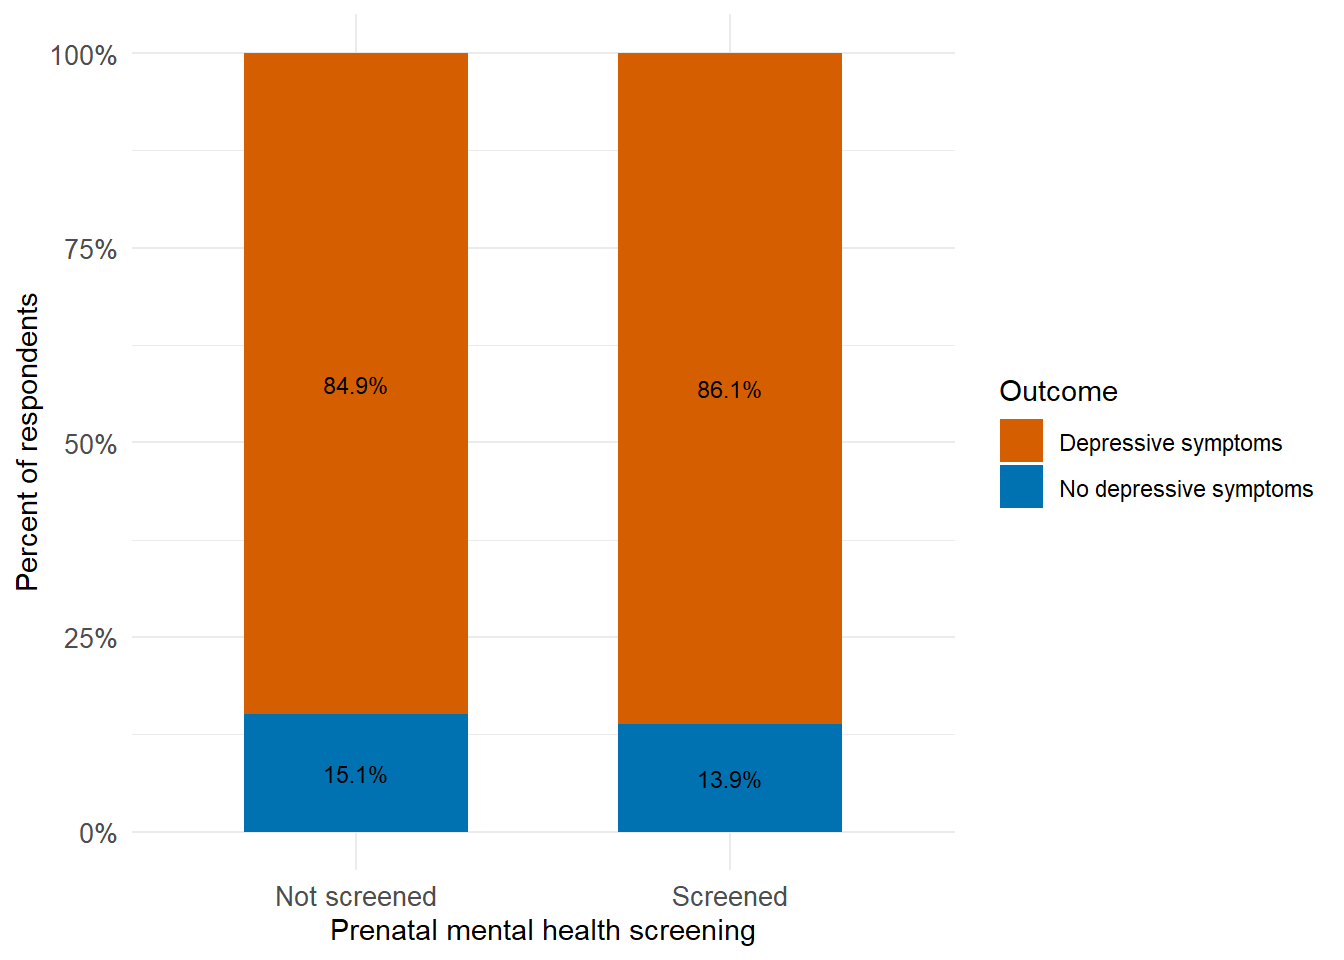
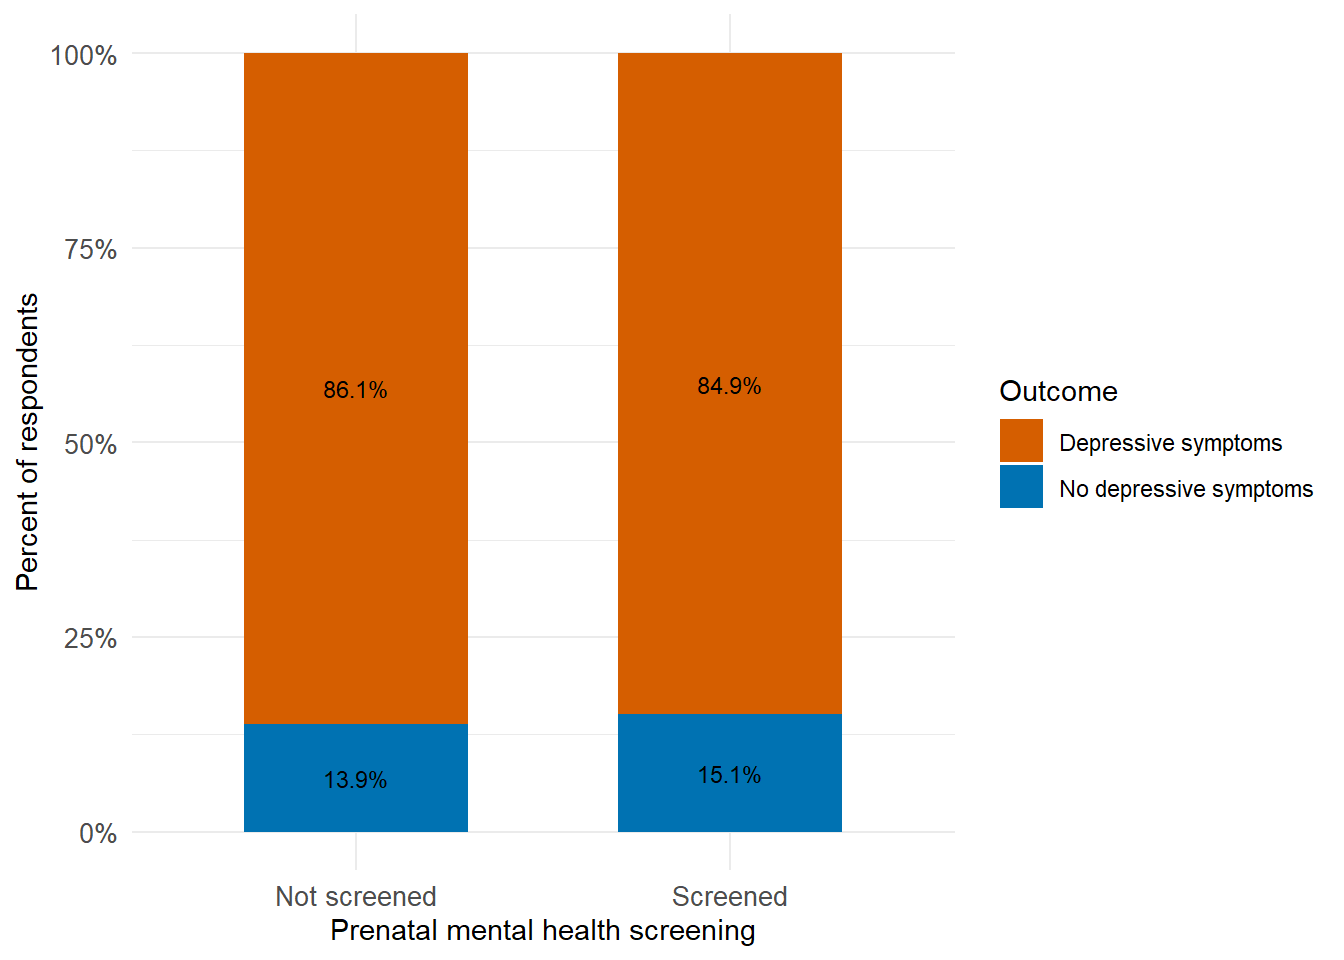
Fix ROC AUC values and screening table labels

diff --git a/code/analysis/05_model_validation.html b/code/analysis/05_model_validation.html
@@ -251,25 +251,44 @@ $ pp_depress_bin &lt;fct&gt; No, Yes, Yes, Yes, No, Yes, Yes, Yes, Yes, Yes, Yes
 <section id="compare-models" class="level1">
 <h1>Compare models</h1>
 <div class="cell">
-<div class="code-copy-outer-scaffold"><div class="sourceCode cell-code" id="cb10"><pre class="sourceCode r code-with-copy"><code class="sourceCode r"><span id="cb10-1"><a href="#cb10-1" aria-hidden="true" tabindex="-1"></a>model_compare <span class="ot">&lt;-</span> <span class="fu">bind_rows</span>(log_metrics, rf_metrics) <span class="sc">|&gt;</span></span>
-<span id="cb10-2"><a href="#cb10-2" aria-hidden="true" tabindex="-1"></a>  <span class="fu">select</span>(model, .metric, mean, std_err, n) <span class="sc">|&gt;</span></span>
-<span id="cb10-3"><a href="#cb10-3" aria-hidden="true" tabindex="-1"></a>  <span class="fu">arrange</span>(.metric, <span class="fu">desc</span>(mean))</span>
-<span id="cb10-4"><a href="#cb10-4" aria-hidden="true" tabindex="-1"></a></span>
-<span id="cb10-5"><a href="#cb10-5" aria-hidden="true" tabindex="-1"></a>model_compare</span></code></pre></div><button title="Copy to Clipboard" class="code-copy-button"><i class="bi"></i></button></div>
+<div class="code-copy-outer-scaffold"><div class="sourceCode cell-code" id="cb10"><pre class="sourceCode r code-with-copy"><code class="sourceCode r"><span id="cb10-1"><a href="#cb10-1" aria-hidden="true" tabindex="-1"></a><span class="co"># Recalculate ROC AUC correctly with event_level = "second"</span></span>
+<span id="cb10-2"><a href="#cb10-2" aria-hidden="true" tabindex="-1"></a>log_auc_fixed <span class="ot">&lt;-</span> <span class="fu">collect_predictions</span>(log_res) <span class="sc">|&gt;</span></span>
+<span id="cb10-3"><a href="#cb10-3" aria-hidden="true" tabindex="-1"></a>  <span class="fu">group_by</span>(id) <span class="sc">|&gt;</span></span>
+<span id="cb10-4"><a href="#cb10-4" aria-hidden="true" tabindex="-1"></a>  <span class="fu">roc_auc</span>(<span class="at">truth =</span> pp_depress_bin, .pred_Yes, <span class="at">event_level =</span> <span class="st">"second"</span>) <span class="sc">|&gt;</span></span>
+<span id="cb10-5"><a href="#cb10-5" aria-hidden="true" tabindex="-1"></a>  <span class="fu">summarise</span>(<span class="at">mean =</span> <span class="fu">mean</span>(.estimate), <span class="at">std_err =</span> <span class="fu">sd</span>(.estimate)<span class="sc">/</span><span class="fu">sqrt</span>(<span class="fu">n</span>()), <span class="at">n =</span> <span class="fu">n</span>()) <span class="sc">|&gt;</span></span>
+<span id="cb10-6"><a href="#cb10-6" aria-hidden="true" tabindex="-1"></a>  <span class="fu">mutate</span>(<span class="at">model =</span> <span class="st">"Logistic regression"</span>, <span class="at">.metric =</span> <span class="st">"roc_auc"</span>)</span>
+<span id="cb10-7"><a href="#cb10-7" aria-hidden="true" tabindex="-1"></a></span>
+<span id="cb10-8"><a href="#cb10-8" aria-hidden="true" tabindex="-1"></a>rf_auc_fixed <span class="ot">&lt;-</span> <span class="fu">collect_predictions</span>(rf_res) <span class="sc">|&gt;</span></span>
+<span id="cb10-9"><a href="#cb10-9" aria-hidden="true" tabindex="-1"></a>  <span class="fu">group_by</span>(id) <span class="sc">|&gt;</span></span>
+<span id="cb10-10"><a href="#cb10-10" aria-hidden="true" tabindex="-1"></a>  <span class="fu">roc_auc</span>(<span class="at">truth =</span> pp_depress_bin, .pred_Yes, <span class="at">event_level =</span> <span class="st">"second"</span>) <span class="sc">|&gt;</span></span>
+<span id="cb10-11"><a href="#cb10-11" aria-hidden="true" tabindex="-1"></a>  <span class="fu">summarise</span>(<span class="at">mean =</span> <span class="fu">mean</span>(.estimate), <span class="at">std_err =</span> <span class="fu">sd</span>(.estimate)<span class="sc">/</span><span class="fu">sqrt</span>(<span class="fu">n</span>()), <span class="at">n =</span> <span class="fu">n</span>()) <span class="sc">|&gt;</span></span>
+<span id="cb10-12"><a href="#cb10-12" aria-hidden="true" tabindex="-1"></a>  <span class="fu">mutate</span>(<span class="at">model =</span> <span class="st">"Random forest"</span>, <span class="at">.metric =</span> <span class="st">"roc_auc"</span>)</span>
+<span id="cb10-13"><a href="#cb10-13" aria-hidden="true" tabindex="-1"></a></span>
+<span id="cb10-14"><a href="#cb10-14" aria-hidden="true" tabindex="-1"></a>acc_rows <span class="ot">&lt;-</span> <span class="fu">bind_rows</span>(log_metrics, rf_metrics) <span class="sc">|&gt;</span></span>
+<span id="cb10-15"><a href="#cb10-15" aria-hidden="true" tabindex="-1"></a>  <span class="fu">filter</span>(.metric <span class="sc">==</span> <span class="st">"accuracy"</span>) <span class="sc">|&gt;</span></span>
+<span id="cb10-16"><a href="#cb10-16" aria-hidden="true" tabindex="-1"></a>  <span class="fu">select</span>(model, .metric, mean, std_err, n)</span>
+<span id="cb10-17"><a href="#cb10-17" aria-hidden="true" tabindex="-1"></a></span>
+<span id="cb10-18"><a href="#cb10-18" aria-hidden="true" tabindex="-1"></a>model_compare_fixed <span class="ot">&lt;-</span> <span class="fu">bind_rows</span>(</span>
+<span id="cb10-19"><a href="#cb10-19" aria-hidden="true" tabindex="-1"></a>  acc_rows,</span>
+<span id="cb10-20"><a href="#cb10-20" aria-hidden="true" tabindex="-1"></a>  log_auc_fixed <span class="sc">|&gt;</span> <span class="fu">select</span>(model, .metric, mean, std_err, n),</span>
+<span id="cb10-21"><a href="#cb10-21" aria-hidden="true" tabindex="-1"></a>  rf_auc_fixed <span class="sc">|&gt;</span> <span class="fu">select</span>(model, .metric, mean, std_err, n)</span>
+<span id="cb10-22"><a href="#cb10-22" aria-hidden="true" tabindex="-1"></a>) <span class="sc">|&gt;</span> <span class="fu">arrange</span>(.metric, <span class="fu">desc</span>(mean))</span>
+<span id="cb10-23"><a href="#cb10-23" aria-hidden="true" tabindex="-1"></a></span>
+<span id="cb10-24"><a href="#cb10-24" aria-hidden="true" tabindex="-1"></a>model_compare_fixed</span></code></pre></div><button title="Copy to Clipboard" class="code-copy-button"><i class="bi"></i></button></div>
 <div class="cell-output cell-output-stdout">
 <pre><code># A tibble: 4 × 5
   model               .metric   mean    std_err     n
   &lt;chr&gt;               &lt;chr&gt;    &lt;dbl&gt;      &lt;dbl&gt; &lt;int&gt;
 1 Logistic regression accuracy 0.859 0.00000308     5
 2 Random forest       accuracy 0.859 0.00000308     5
-3 Logistic regression roc_auc  0.344 0.000836       5
-4 Random forest       roc_auc  0.344 0.000950       5</code></pre>
+3 Random forest       roc_auc  0.656 0.000950       5
+4 Logistic regression roc_auc  0.656 0.000836       5</code></pre>
 </div>
 <div class="code-copy-outer-scaffold"><div class="sourceCode cell-code" id="cb12"><pre class="sourceCode r code-with-copy"><code class="sourceCode r"><span id="cb12-1"><a href="#cb12-1" aria-hidden="true" tabindex="-1"></a><span class="fu">dir.create</span>(<span class="fu">here</span>(<span class="st">"results"</span>, <span class="st">"tables"</span>), <span class="at">showWarnings =</span> <span class="cn">FALSE</span>, <span class="at">recursive =</span> <span class="cn">TRUE</span>)</span>
 <span id="cb12-2"><a href="#cb12-2" aria-hidden="true" tabindex="-1"></a><span class="fu">dir.create</span>(<span class="fu">here</span>(<span class="st">"results"</span>, <span class="st">"output"</span>), <span class="at">showWarnings =</span> <span class="cn">FALSE</span>, <span class="at">recursive =</span> <span class="cn">TRUE</span>)</span>
 <span id="cb12-3"><a href="#cb12-3" aria-hidden="true" tabindex="-1"></a></span>
-<span id="cb12-4"><a href="#cb12-4" aria-hidden="true" tabindex="-1"></a><span class="fu">write_csv</span>(model_compare, <span class="fu">here</span>(<span class="st">"results"</span>, <span class="st">"tables"</span>, <span class="st">"model_comparison.csv"</span>))</span>
-<span id="cb12-5"><a href="#cb12-5" aria-hidden="true" tabindex="-1"></a><span class="fu">saveRDS</span>(model_compare, <span class="fu">here</span>(<span class="st">"results"</span>, <span class="st">"tables"</span>, <span class="st">"model_comparison.rds"</span>))</span>
+<span id="cb12-4"><a href="#cb12-4" aria-hidden="true" tabindex="-1"></a><span class="fu">write_csv</span>(model_compare_fixed, <span class="fu">here</span>(<span class="st">"results"</span>, <span class="st">"tables"</span>, <span class="st">"model_comparison.csv"</span>))</span>
+<span id="cb12-5"><a href="#cb12-5" aria-hidden="true" tabindex="-1"></a><span class="fu">saveRDS</span>(model_compare_fixed, <span class="fu">here</span>(<span class="st">"results"</span>, <span class="st">"tables"</span>, <span class="st">"model_comparison.rds"</span>))</span>
 <span id="cb12-6"><a href="#cb12-6" aria-hidden="true" tabindex="-1"></a><span class="fu">saveRDS</span>(log_res, <span class="fu">here</span>(<span class="st">"results"</span>, <span class="st">"output"</span>, <span class="st">"logistic_cv_results.rds"</span>))</span>
 <span id="cb12-7"><a href="#cb12-7" aria-hidden="true" tabindex="-1"></a><span class="fu">saveRDS</span>(rf_res, <span class="fu">here</span>(<span class="st">"results"</span>, <span class="st">"output"</span>, <span class="st">"random_forest_cv_results.rds"</span>))</span>
 <span id="cb12-8"><a href="#cb12-8" aria-hidden="true" tabindex="-1"></a></span>
@@ -332,6 +351,12 @@ $ pp_depress_bin &lt;fct&gt; No, Yes, Yes, Yes, No, Yes, Yes, Yes, Yes, Yes, Yes
 <span id="cb21-8"><a href="#cb21-8" aria-hidden="true" tabindex="-1"></a>  <span class="at">dpi =</span> <span class="dv">300</span></span>
 <span id="cb21-9"><a href="#cb21-9" aria-hidden="true" tabindex="-1"></a>)</span></code></pre></div><button title="Copy to Clipboard" class="code-copy-button"><i class="bi"></i></button></div>
 </div>
+</section>
+<section id="using-5-fold-cross-validation-to-compare-logistic-regression-vs.-random-forest" class="level1">
+<h1>Using 5-fold cross-validation to compare logistic regression vs.&nbsp;random forest</h1>
+</section>
+<section id="roc-auc-selected-as-performance-metric-because-the-outcome-is-binary" class="level1">
+<h1>ROC-AUC selected as performance metric because the outcome is binary</h1>
 </section>
 
 </main>

diff --git a/products/manuscript/Manuscript.html b/products/manuscript/Manuscript.html
@@ -191,12 +191,12 @@ Table&nbsp;1: Study population characteristics
 </tr>
 <tr class="odd">
 <td style="text-align: left;">Screened during prenatal care</td>
-<td style="text-align: right;">189,220</td>
+<td style="text-align: right;">43,993</td>
 <td style="text-align: right;">81.1%</td>
 </tr>
 <tr class="even">
 <td style="text-align: left;">Not screened during prenatal care</td>
-<td style="text-align: right;">43,993</td>
+<td style="text-align: right;">189,220</td>
 <td style="text-align: right;">18.9%</td>
 </tr>
 <tr class="odd">
@@ -440,12 +440,12 @@ Table&nbsp;4: Distribution of postpartum depressive symptoms by prenatal mental 
 </thead>
 <tbody>
 <tr class="odd">
-<td style="text-align: left;">Screened</td>
+<td style="text-align: left;">Not screened</td>
 <td style="text-align: center;">26,238 (13.9%)</td>
 <td style="text-align: center;">162,982 (86.1%)</td>
 </tr>
 <tr class="even">
-<td style="text-align: left;">Not screened</td>
+<td style="text-align: left;">Screened</td>
 <td style="text-align: center;">6,641 (15.1%)</td>
 <td style="text-align: center;">37,352 (84.9%)</td>
 </tr>
@@ -477,12 +477,12 @@ Table&nbsp;5: Model validation results comparing logistic regression and random 
 <tr class="odd">
 <td style="text-align: left;">Logistic regression</td>
 <td style="text-align: center;">0.859 (SE 0)</td>
-<td style="text-align: center;">0.344 (SE 0.001)</td>
+<td style="text-align: center;">0.656 (SE 0.001)</td>
 </tr>
 <tr class="even">
 <td style="text-align: left;">Random forest</td>
 <td style="text-align: center;">0.859 (SE 0)</td>
-<td style="text-align: center;">0.344 (SE 0.001)</td>
+<td style="text-align: center;">0.656 (SE 0.001)</td>
 </tr>
 </tbody>
 </table>
@@ -506,7 +506,21 @@ Figure&nbsp;3: Cross-validation performance of logistic regression and random fo
 </div>
 </div>
 </div>
-<p>Both models performed very similarly, with an accuracy of 0.859 and a ROC AUC of 0.656. The small differences in error across the different tests suggest the results are consistent and not affected much by which data points were left out. A ROC AUC of 0.656 shows only a moderate ability to tell the differences, which isn’t surprising given the small number of factors used. Since the random forest didn’t do better than logistic regression, we kept the simpler model. In the adjusted model, women who had prenatal mental health screening were less likely to experience postpartum depression compared to those who weren’t screened (OR = 0.76, 95% CI: 0.74 to 0.78, p &lt; 0.001), even after taking into account depression during pregnancy and maternal education.</p>
+<p>Both models performed very similarly, with an accuracy of 0.859 and a ROC AUC of 0.656. The small differences in error across the different tests suggest the results are consistent and not affected much by which data points were left out. A ROC AUC of 0.656 shows only a moderate ability to tell the differences, which is not surprising given the small number of factors used. Since the random forest didn’t do better than logistic regression, we kept the simpler model. In the adjusted model, women who had prenatal mental health screening were less likely to experience postpartum depression compared to those who weren’t screened (OR = 0.76, 95% CI: 0.74 to 0.78, p &lt; 0.001), even after taking into account depression during pregnancy and maternal education.</p>
+<div class="cell">
+<div class="cell-output-display">
+<div id="fig-roc-curve" class="quarto-float quarto-figure quarto-figure-center anchored">
+<figure class="quarto-float quarto-float-fig figure">
+<div aria-describedby="fig-roc-curve-caption-0ceaefa1-69ba-4598-a22c-09a6ac19f8ca">
+<img src="../../results/figures/roc_curve_comparison.png" class="img-fluid figure-img">
+</div>
+<figcaption class="quarto-float-caption-bottom quarto-float-caption quarto-float-fig" id="fig-roc-curve-caption-0ceaefa1-69ba-4598-a22c-09a6ac19f8ca">
+Figure&nbsp;4: ROC curve comparison: logistic regression and random forest
+</figcaption>
+</figure>
+</div>
+</div>
+</div>
 </section>
 </section>
 <section id="discussion" class="level1" data-number="6">